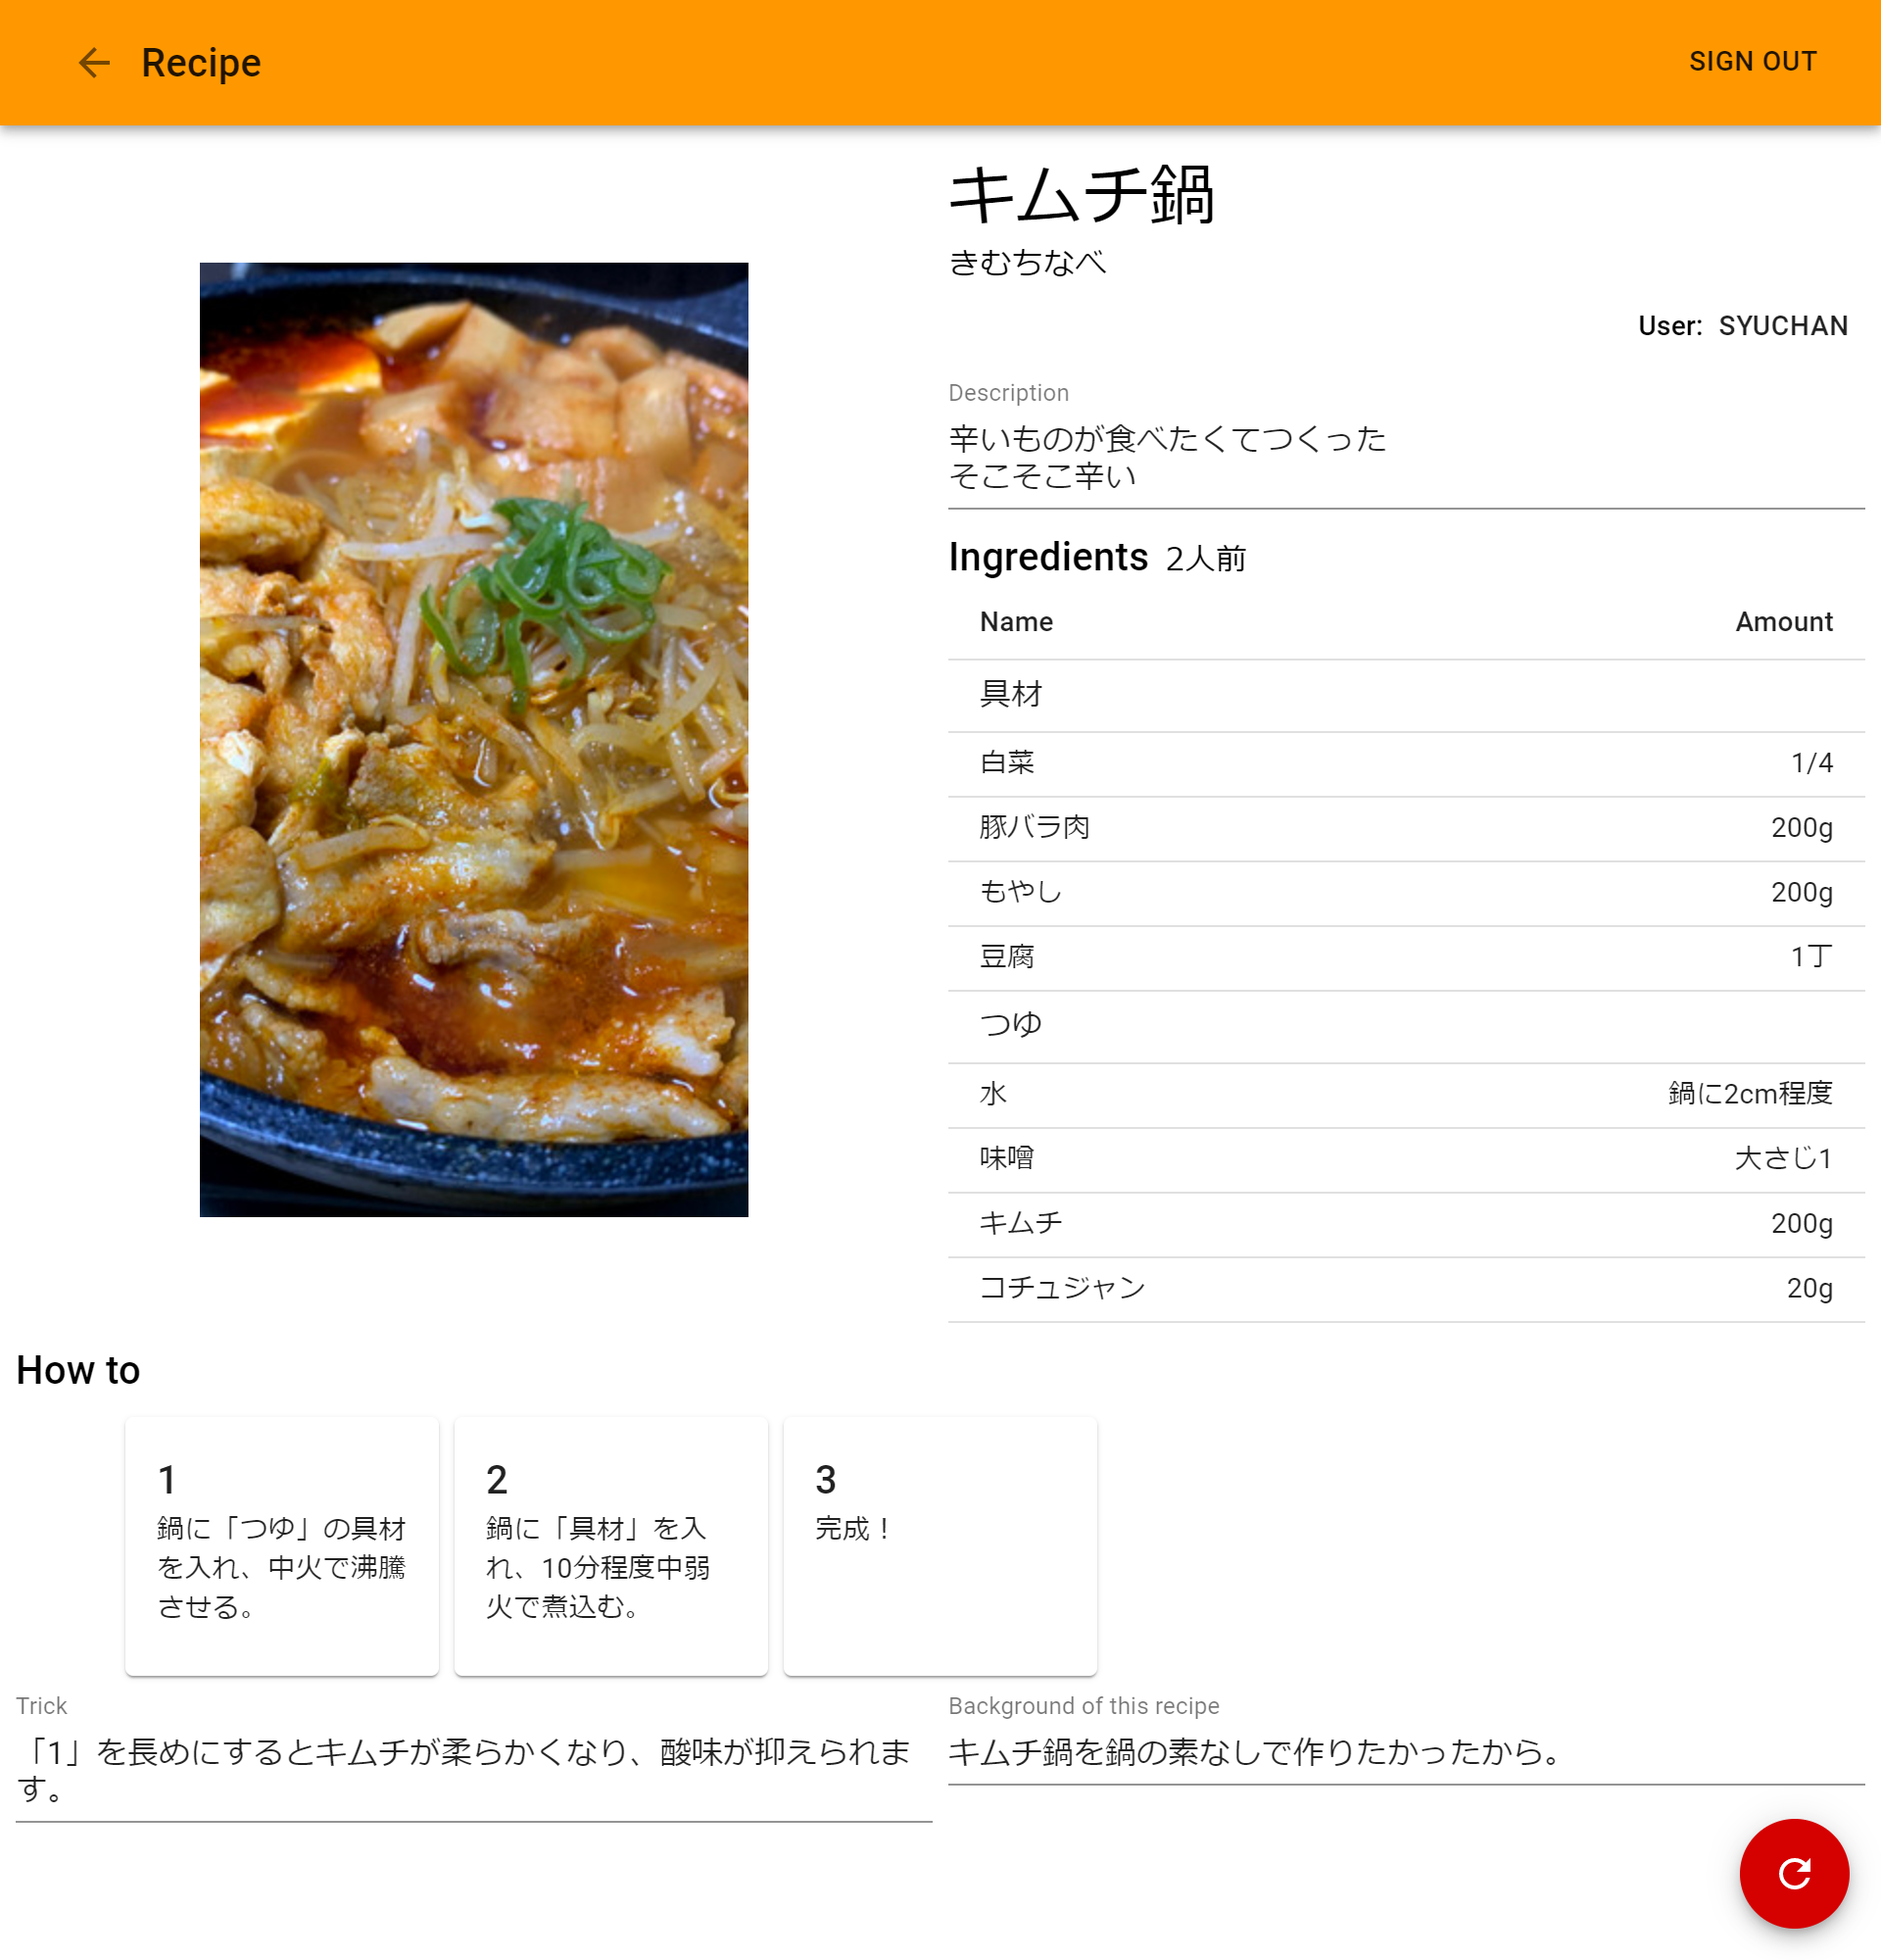
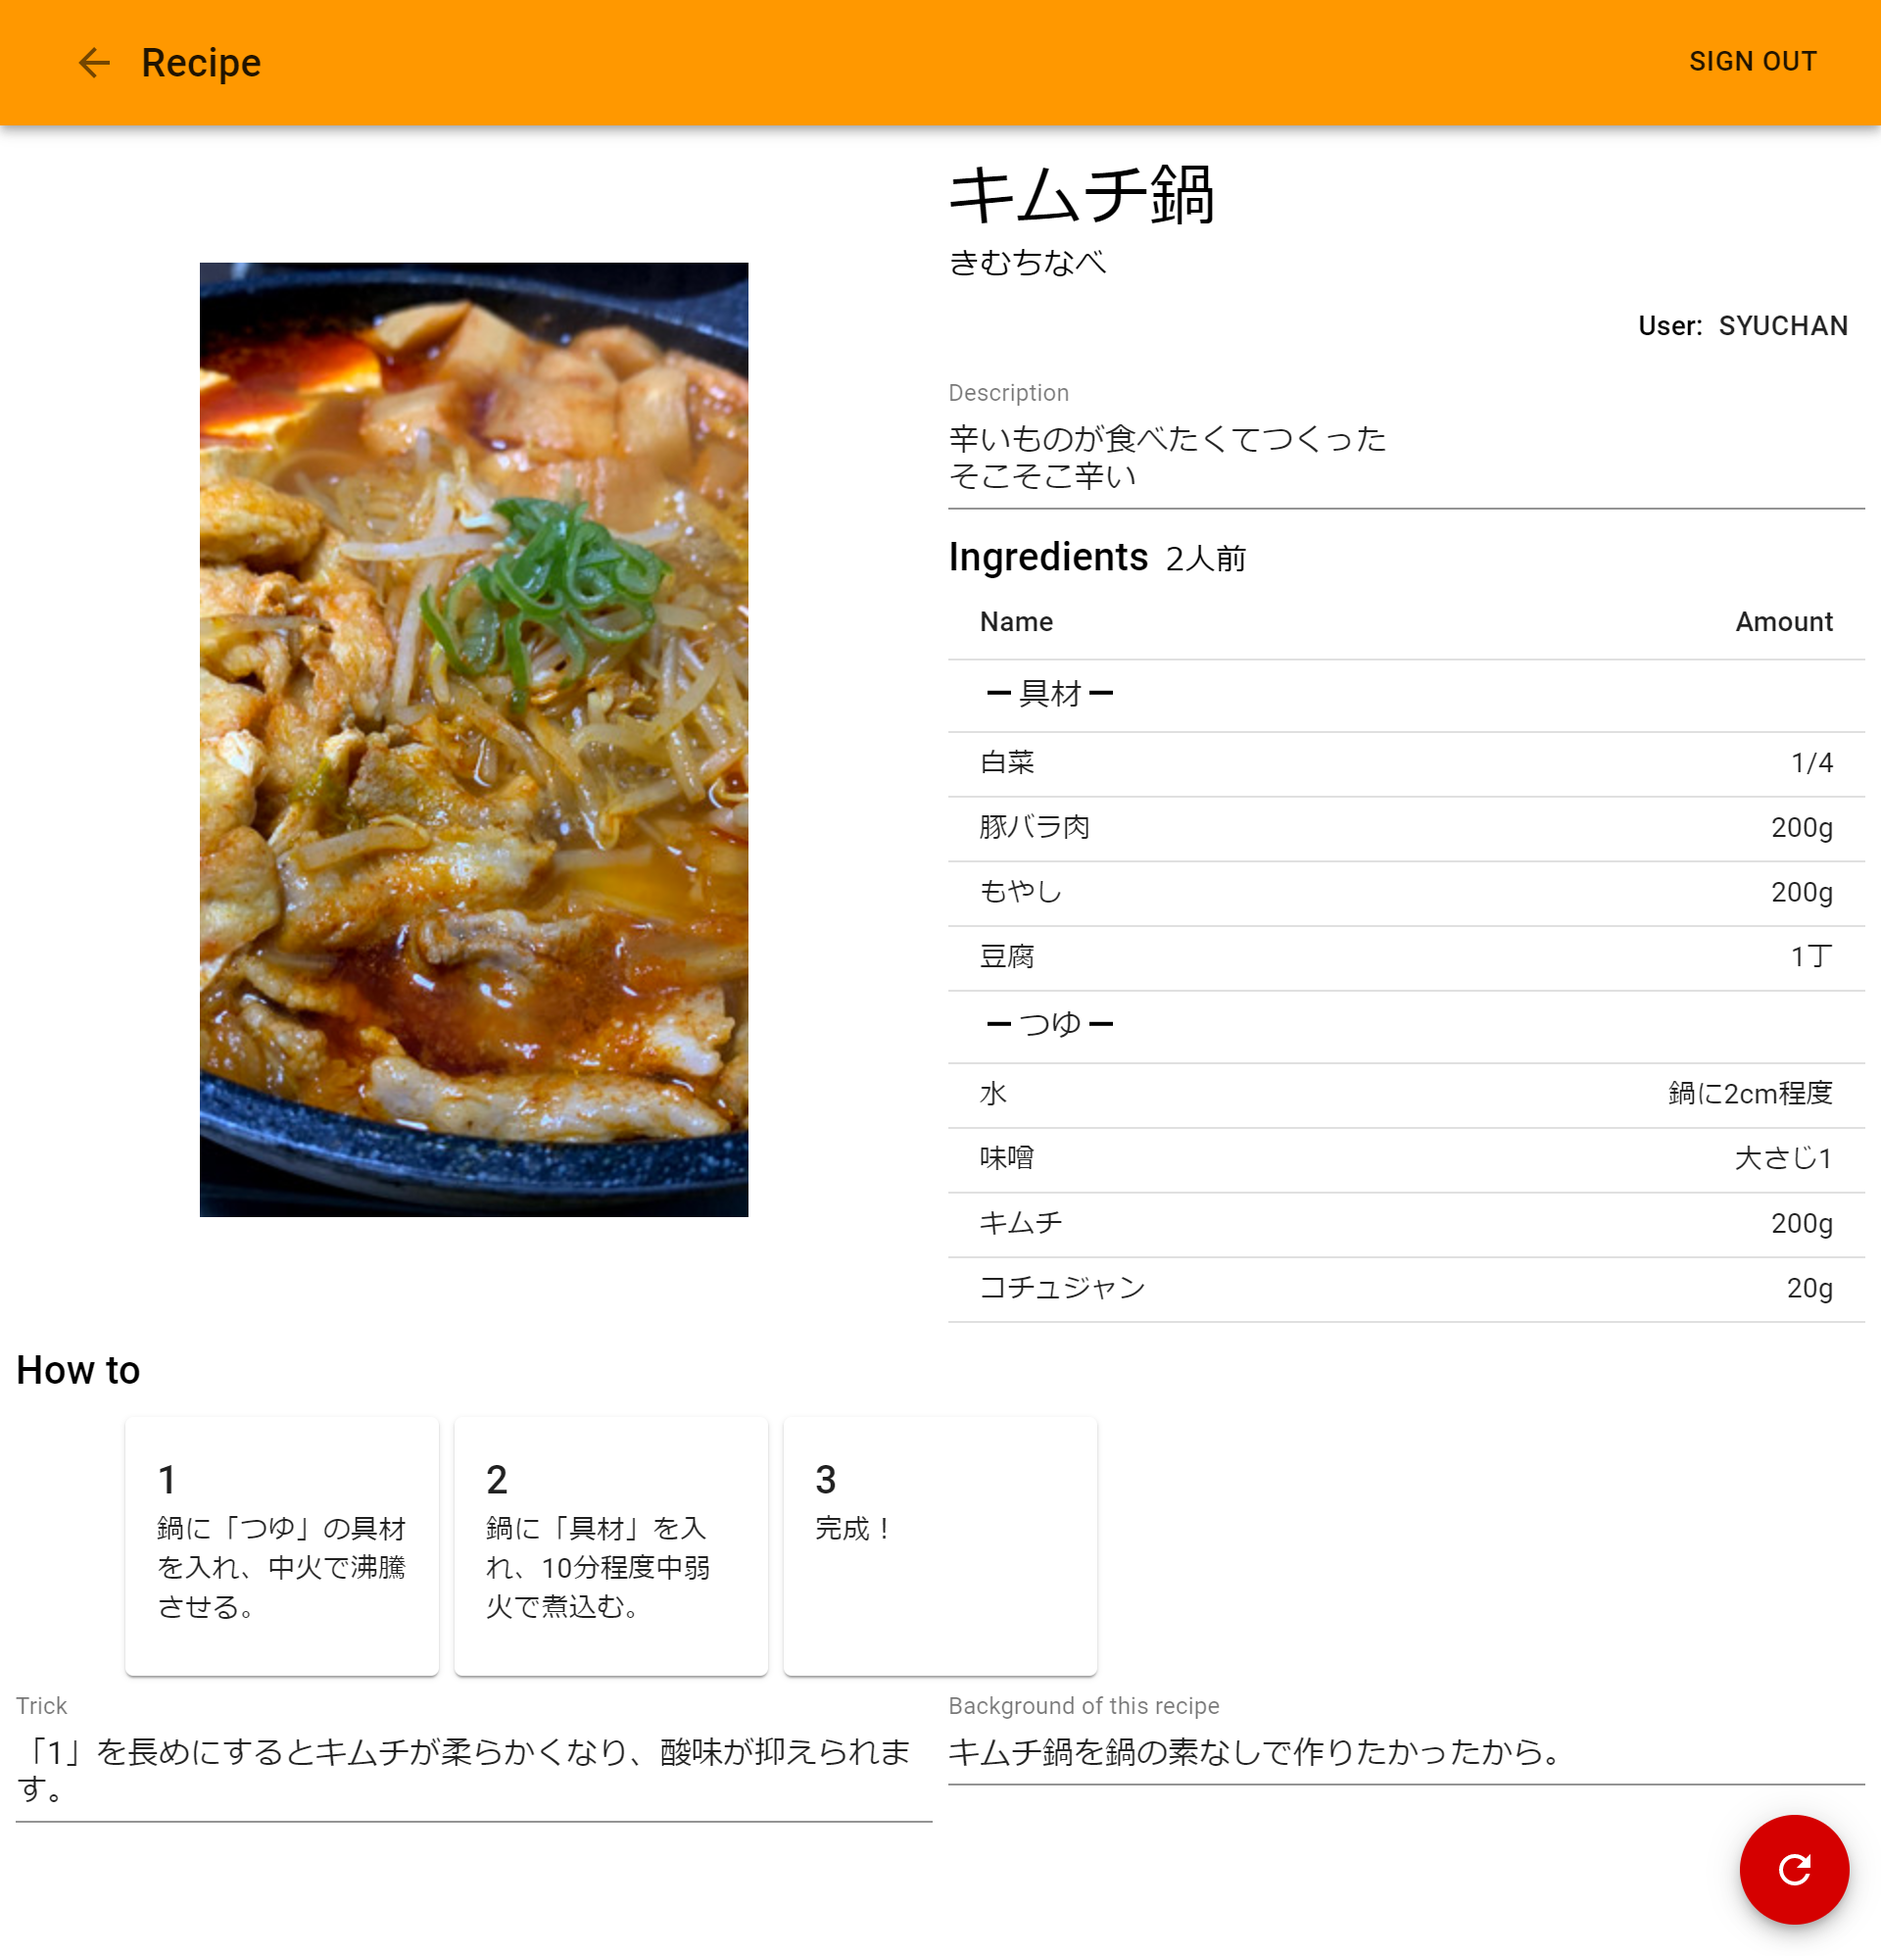
:construction: add border

diff --git a/src/client/pages/Recipe.tsx b/src/client/pages/Recipe.tsx
@@ -96,6 +96,16 @@ const useStyles = makeStyles((theme: Theme) => createStyles({
     right: theme.spacing(2),
     bottom: theme.spacing(2),
   },
+  groupName: {
+    '&::before, &::after': {
+      display: 'inline-block',
+      content: '""',
+      borderTop: '2px solid black',
+      width: theme.spacing(1.5),
+      margin: theme.spacing(0, 0.5),
+      transform: 'translateY(-0.35rem)',
+    },
+  },
 }));
 
 const Recipe: FC = (props) => {
@@ -190,7 +200,9 @@ const Recipe: FC = (props) => {
                       (k && k.length > 0) ? (
                         <TableRow key={k}>
                           <TableCell colSpan={2}>
-                            <Typography>{k}</Typography>
+                            <Typography className={classes.groupName}>
+                              {k}
+                            </Typography>
                           </TableCell>
                         </TableRow>
                       ) : undefined,
